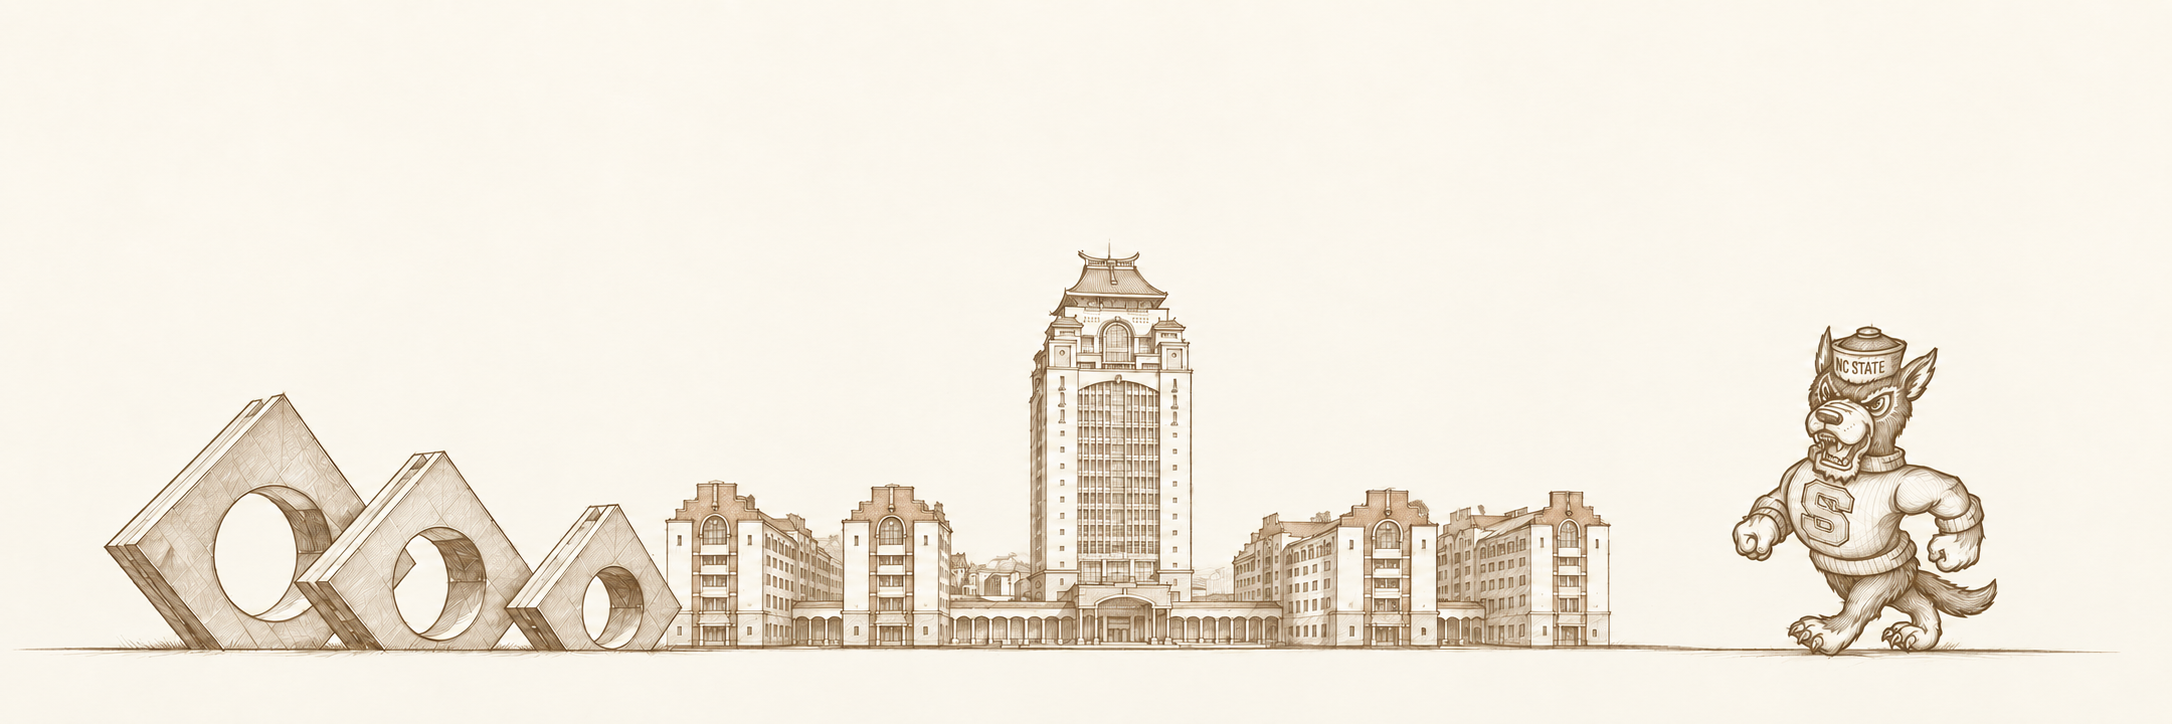
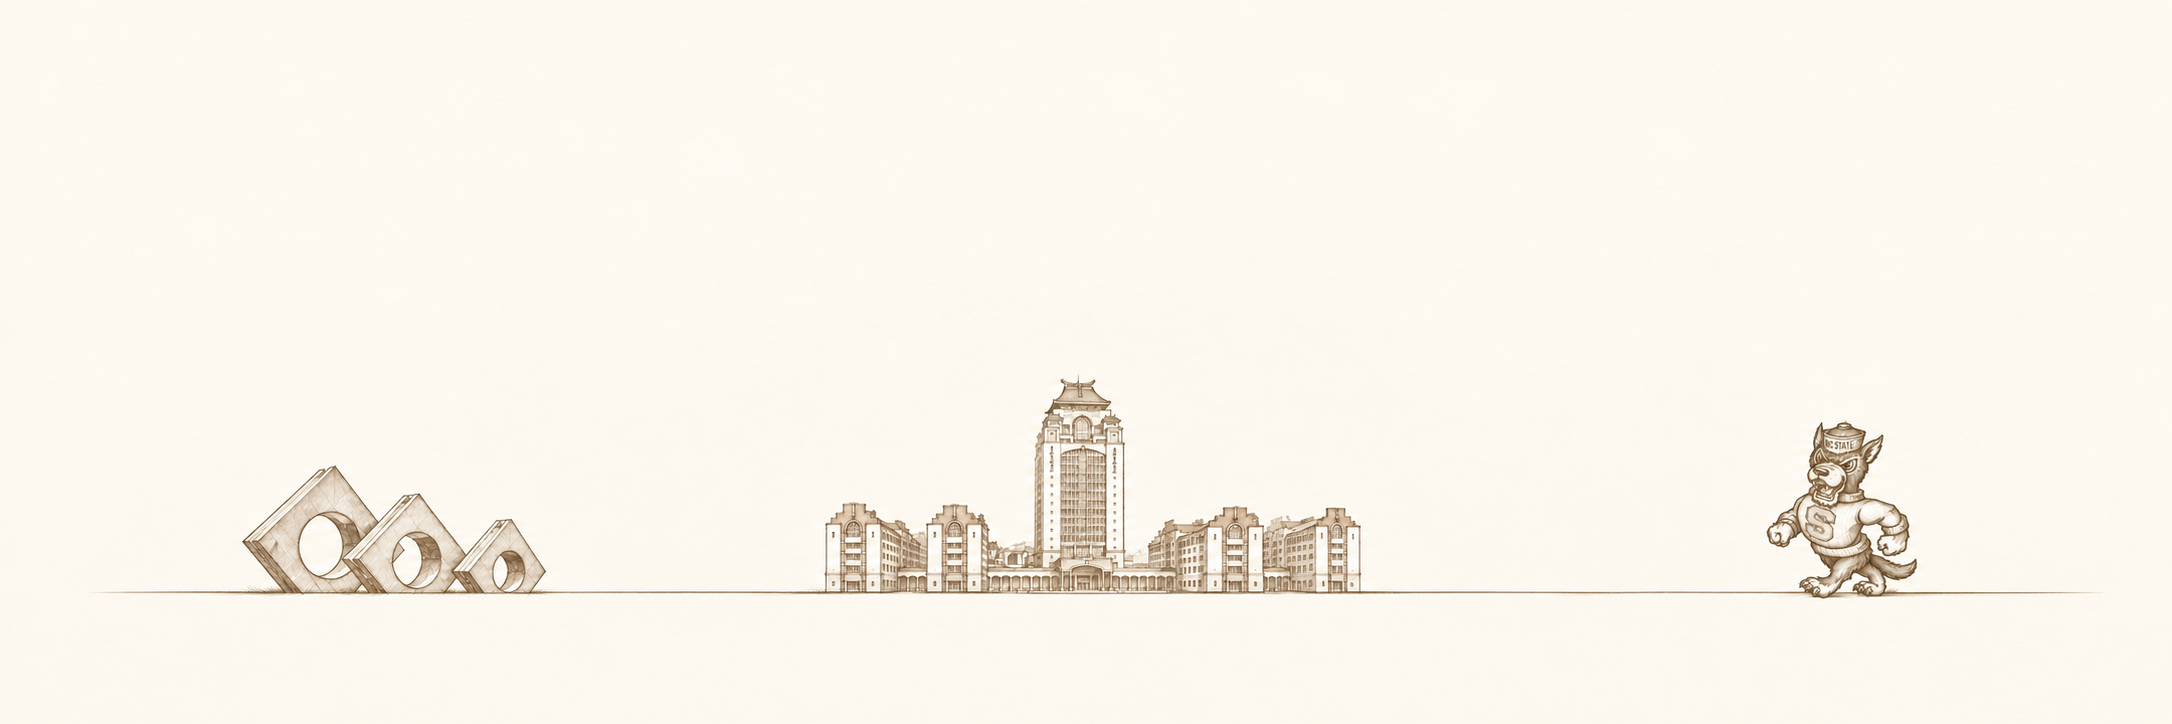
Reduce footer motifs and add spacing between campus illustrations

Changed region(s): [[0.0308, 0.3343, 0.9563, 0.9116]]

diff --git a/assets/css/extended/academic.css b/assets/css/extended/academic.css
@@ -17,9 +17,10 @@ body { min-height: 100vh; display: flex; flex-direction: column; }
   flex: none;
   width: 75%;
   max-width: 1050px;
-  height: clamp(98px, 17.625vw, 248px);
+  height: clamp(78px, 13vw, 185px);
   margin: 0 auto;
-  background: var(--campus-illustration) center bottom / 100% auto no-repeat;
+  background: var(--campus-illustration) center bottom / 92% auto no-repeat;
+  mix-blend-mode: darken;
   mask-image: linear-gradient(to bottom, transparent, #000 12%, #000 92%, transparent);
   pointer-events: none;
 }
